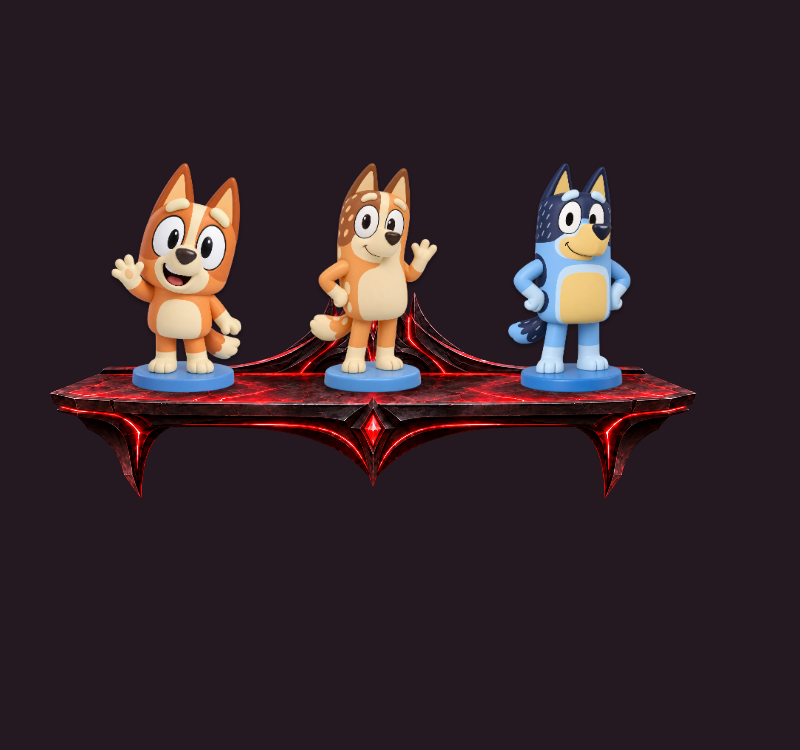
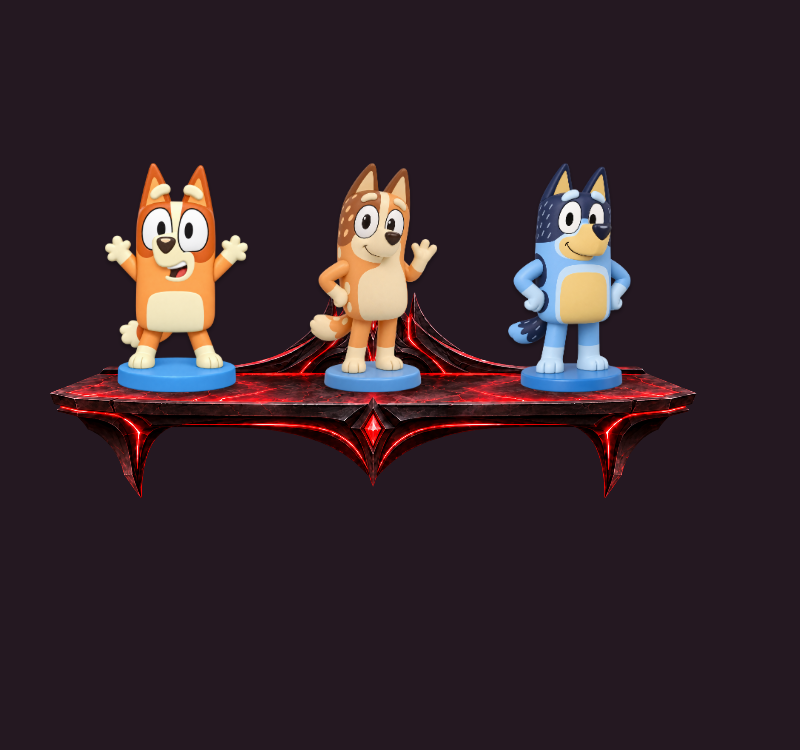
Correct Bingo statue to match supplied reference

Changed region(s): [[0.125, 0.2147, 0.3125, 0.5213]]

diff --git a/work/verify-bluey-family.js b/work/verify-bluey-family.js
@@ -3,7 +3,8 @@ const {chromium}=require('playwright'),sharp=require('sharp'),shelf=require('../
 (async()=>{
  const ids=['bingo','chilli','bandit'];
  assert(shelf.valid({enabled:true,theme:'crimson',slots:ids}));
- for(const id of ids){assert(shelf.items.some(i=>i.id===id&&i.category==='Character Collectibles'));const {data}=await sharp('assets/shelf-'+id+'.png').ensureAlpha().raw().toBuffer({resolveWithObject:true});assert.equal(data[3],0);}
+ const asset=id=>'assets/shelf-'+id+(id==='bingo'?'-reference':'')+'.png';
+ for(const id of ids){assert(shelf.items.some(i=>i.id===id&&i.category==='Character Collectibles'));const {data}=await sharp(asset(id)).ensureAlpha().raw().toBuffer({resolveWithObject:true});assert.equal(data[3],0);}
  const browser=await chromium.launch({executablePath:'C:/Program Files (x86)/Google/Chrome/Application/chrome.exe',headless:true});
  try{
  const page=await browser.newPage({viewport:{width:800,height:750}});
@@ -15,7 +16,7 @@ const {chromium}=require('playwright'),sharp=require('sharp'),shelf=require('../
  await page.addScriptTag({path:path.resolve('collectible-shelf.js')});
  await page.evaluate(()=>CollectibleShelf.open({selected:{enabled:true,theme:'crimson',slots:['bluey','none','none']},save:async v=>v,onSave:()=>{}}));
  await page.locator('#shelfCategory').selectOption('Character Collectibles');
- for(const id of ids){await page.locator('#shelfSearch').fill(id);const card=page.locator('[data-shelf-item="'+id+'"]');assert.equal(await card.locator('image').getAttribute('href'),'assets/shelf-'+id+'.png');await card.click();}
+ for(const id of ids){await page.locator('#shelfSearch').fill(id);const card=page.locator('[data-shelf-item="'+id+'"]');assert.equal(await card.locator('image').getAttribute('href'),asset(id));await card.click();}
  console.log('Bingo, Chilli and Bandit: category, selection, validation, transparency, statue height and shelf baseline passed.');
  }finally{await browser.close();}
 })().catch(e=>{console.error(e);process.exitCode=1});

diff --git a/collectible-shelf.js b/collectible-shelf.js
@@ -103,7 +103,7 @@
   const clean = value => valid(value) ? { enabled: value.enabled, slots: value.slots.map(id => replacements[id] || id), theme:value.theme || 'crimson' } : { enabled: true, slots: ['horse', 'crystal', 'planet'], theme:'crimson' };
   const name = id => items.find(item => item.id === id)?.name || 'Empty spot';
   const standalone = {
-    bingo: {source:'assets/shelf-bingo.png',width:1254,height:1254,bounds:[242,5,706,1243]},
+    bingo: {source:'assets/shelf-bingo-reference.png',width:1024,height:1536,bounds:[60,34,907,1455]},
     chilli: {source:'assets/shelf-chilli.png',width:1254,height:1254,bounds:[278,6,689,1237]},
     bandit: {source:'assets/shelf-bandit.png',width:1254,height:1254,bounds:[291,9,662,1237]},
     'nola-snowball': {source:'assets/shelf-nola-snowball.png',width:1254,height:1254,bounds:[240,17,821,1222]},

diff --git a/index.html b/index.html
@@ -25,7 +25,7 @@
 
   <script src="launchpad-scenes.js?v=20260926-christian-v41"></script>
   <script src="profile-banners.js?v=20260922-v5"></script>
-<script src="collectible-shelf.js?v=20260926-bluey-family-v37"></script>
+<script src="collectible-shelf.js?v=20260926-bingo-reference-v38"></script>
   <script src="app.js?v=20260926-title-loading-v74"></script>
   <script src="colt-assistant.js?v=20260905-lazy-artwork-v2"></script>
   <script src="colt-radio.js?v=20260926-youradio-v25"></script>

diff --git a/work/bingo-reference-art.md b/work/bingo-reference-art.md
@@ -1,0 +1,11 @@
+# Bingo reference correction
+
+Built-in image-generation mode, using the user's Desktop/images.jpg as the character reference. Final asset: `assets/shelf-bingo-reference.png`, copied unchanged with transparent alpha. Original artwork retained; existing Bingo item ID preserved.
+
+## Character prompt
+
+Use case: style-transfer. Input image is the authoritative character reference for Bingo from Bluey. Make a full-body 3D painted resin shelf statue of EXACTLY this character design, preserving rectangular continuous head-and-torso silhouette, flat orange body, cream rectangular belly patch, cream narrow forehead stripe, brown-orange eye patches, tall narrow triangular ears, cream eyebrows, very large upright white oval eyes, small dark triangular nose and small sideways cream muzzle. Do not make a round chibi head, spherical cheeks, huge protruding puppy muzzle, or toddler body. Follow the reference's happy open mouth and both arms raised outward in celebration, cream hands and feet, small tail. Adapt feet onto a low round blue collectible base for standing stability; keep limbs compact enough to fit a shelf slot. Smooth sculpted toy finish with soft shading, front view, detailed but faithful cartoon shapes rather than realistic fur. Entire statue and base visible with 4 percent safe margins, centered, true transparent alpha background, no floor or external cast shadow, no text. Portrait 2:3 composition.
+
+## Cleanup prompt
+
+Use case: background-extraction. Keep this exact Bingo statue and its blue circular base unchanged. Remove ALL background including orange and cream glows, blue floor reflection, haze and shadows outside the statue. True fully transparent alpha in every area outside the solid character and solid blue base. Clean crisp cutout, no halo, no backdrop, no glow, no floor. Preserve character, pose, proportions and colors exactly. Whole statue and base visible.
